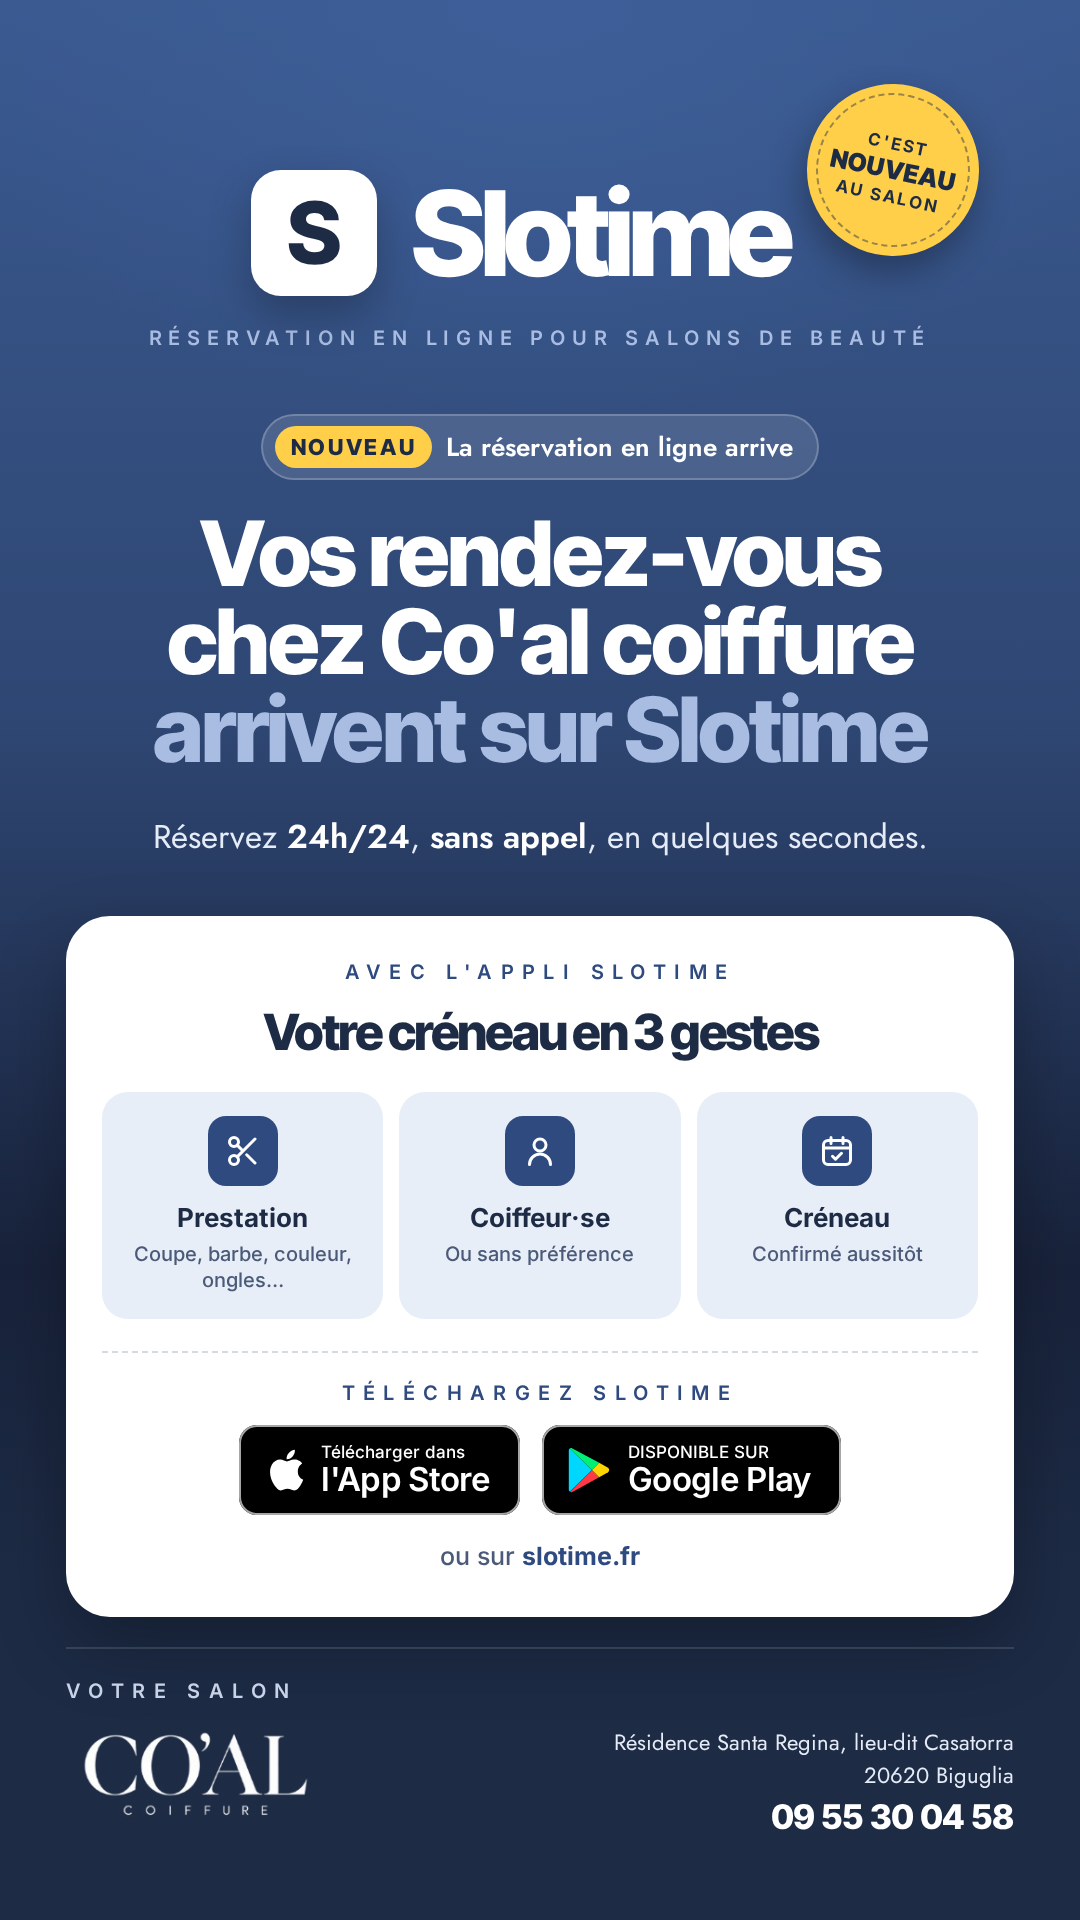
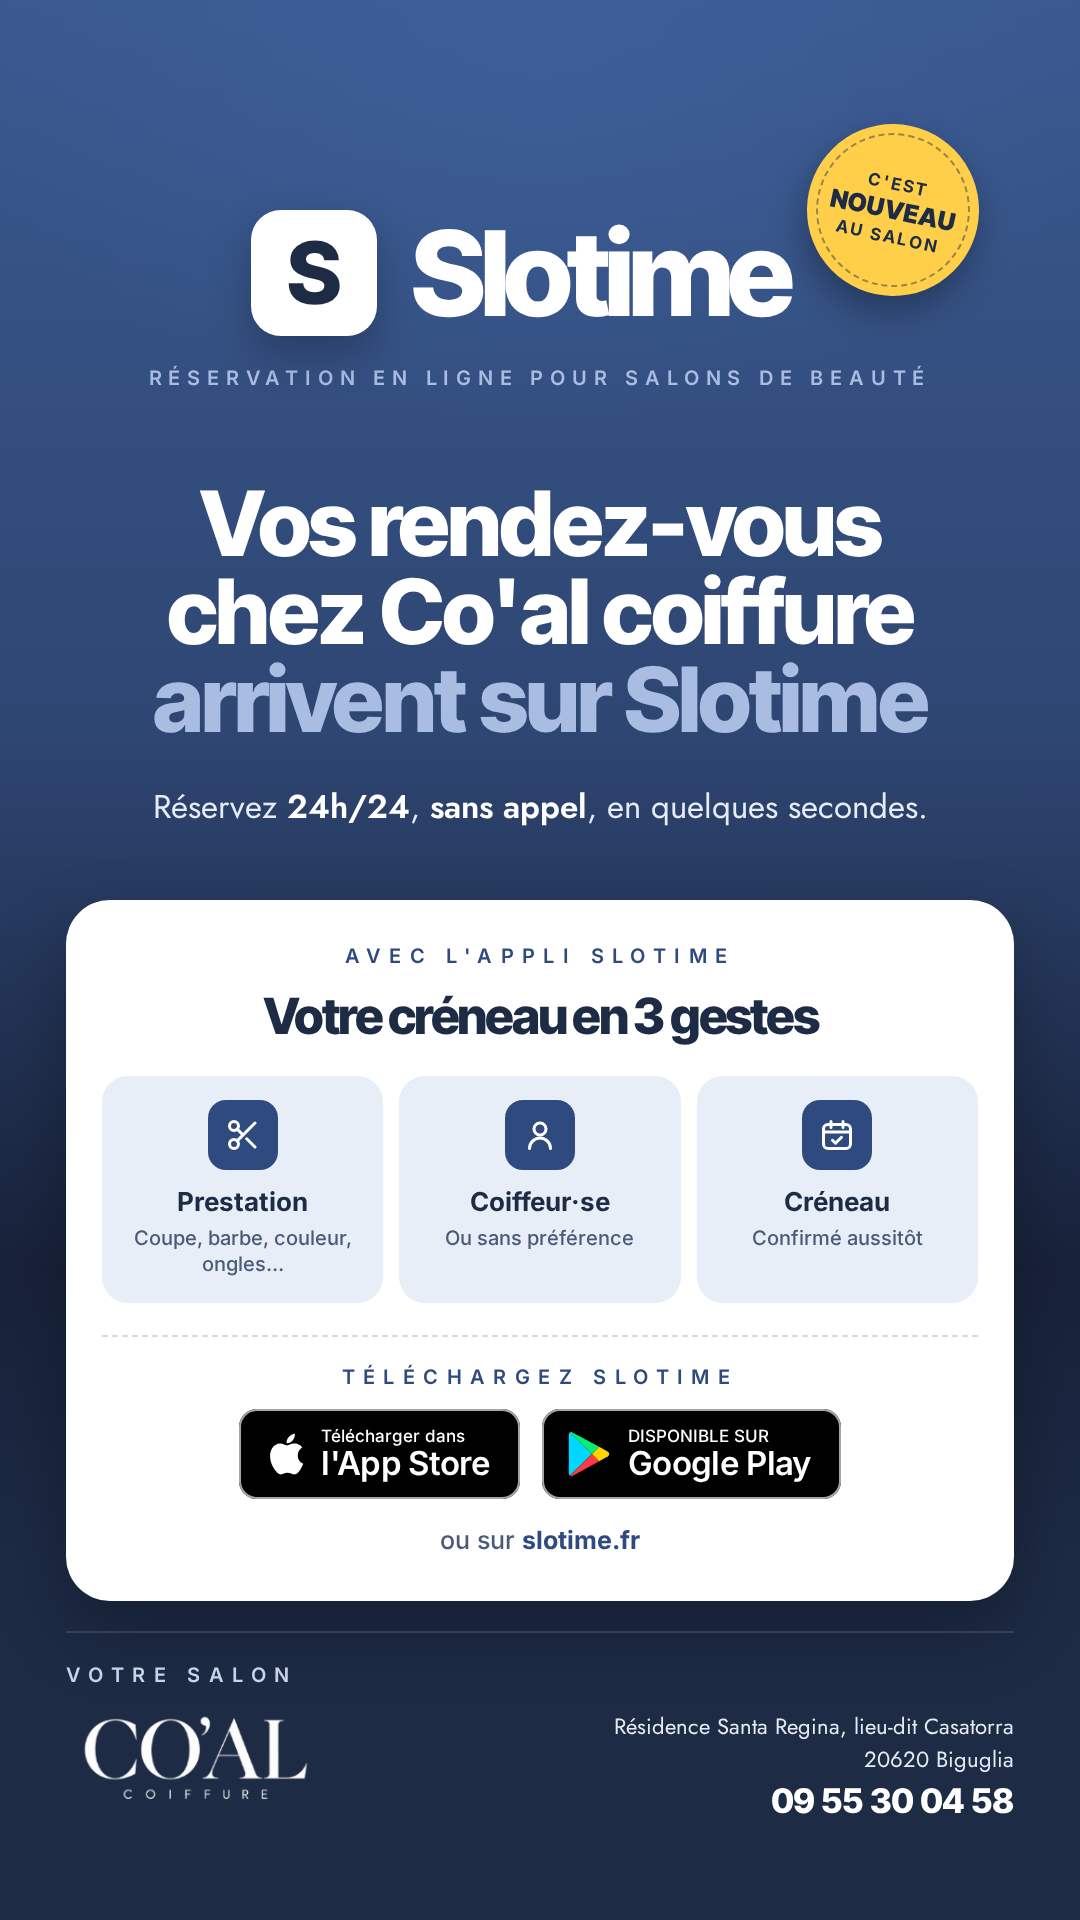
Affiche Slotime : une seule mention « Nouveau » (retire le bandeau)
Claude-Session: https://claude.ai/code/session_01TMEcgZhRSnQaVQC7YFvzaF

diff --git a/slotime/affiche.html b/slotime/affiche.html
@@ -13,7 +13,7 @@
 * { box-sizing: border-box; margin: 0; }
 body { width: 1080px; height: 1920px; overflow: hidden; color: #fff; font-family: "Inter", Arial, sans-serif;
   background: radial-gradient(900px 600px at 50% 0%, #3d5e98, transparent 70%), linear-gradient(180deg, var(--top) 0%, var(--mid) 38%, #18223a 66%, var(--bottom) 82%, var(--bottom) 100%); }
-.wrap { position: relative; height: 100%; padding: 170px 66px 0; display: flex; flex-direction: column; align-items: center; }
+.wrap { position: relative; height: 100%; padding: 210px 66px 0; display: flex; flex-direction: column; align-items: center; }
 
 .brand { position: relative; left: -20px; display: flex; align-items: center; gap: 34px; }
 .logo { width: 126px; height: 126px; border-radius: 30px; background: #fff; color: var(--ink); display: grid; place-items: center; font: 800 86px "Inter Tight", sans-serif; box-shadow: 0 18px 40px rgba(0,0,0,.25); }
@@ -29,12 +29,12 @@ body { width: 1080px; height: 1920px; overflow: hidden; color: #fff; font-family
 .new { margin-top: 64px; display: inline-flex; align-items: center; gap: 14px; padding: 12px 26px 12px 14px; border-radius: 999px; background: rgba(255,255,255,.12); box-shadow: inset 0 0 0 2px rgba(255,255,255,.22); font: 600 26px "Jost", sans-serif; }
 .new span { background: var(--hot); color: var(--hot-ink); font: 800 22px "Inter Tight", sans-serif; letter-spacing: .12em; padding: 8px 16px; border-radius: 999px; }
 
-h1 { margin-top: 30px; text-align: center; font: 800 90px/0.98 "Inter Tight", sans-serif; letter-spacing: -0.03em; }
+h1 { margin-top: 90px; text-align: center; font: 800 90px/0.98 "Inter Tight", sans-serif; letter-spacing: -0.03em; }
 h1 em { font-style: normal; color: var(--sky); }
 .sub { margin-top: 38px; font: 400 33px "Jost", sans-serif; color: #e6ecf7; }
 .sub b { font-weight: 600; color: #fff; }
 
-.card { margin-top: 56px; width: 100%; background: #fff; color: var(--ink); border-radius: 44px; padding: 44px 36px 46px; text-align: center; box-shadow: 0 30px 70px rgba(0,0,0,.28); }
+.card { margin-top: 70px; width: 100%; background: #fff; color: var(--ink); border-radius: 44px; padding: 44px 36px 46px; text-align: center; box-shadow: 0 30px 70px rgba(0,0,0,.28); }
 .eyebrow { font: 600 20px "Inter", sans-serif; letter-spacing: .42em; color: var(--icon); text-transform: uppercase; }
 .card h2 { margin-top: 18px; font: 800 50px "Inter Tight", sans-serif; letter-spacing: -0.045em; }
 .steps { margin-top: 30px; display: grid; grid-template-columns: repeat(3, 1fr); gap: 16px; }
@@ -65,7 +65,6 @@ h1 em { font-style: normal; color: var(--sky); }
   </div>
   <div class="tag">Réservation en ligne pour salons de beauté</div>
 
-  <div class="new"><span>NOUVEAU</span>La réservation en ligne arrive</div>
   <h1>Vos rendez-vous<br>chez Co'al coiffure<br><em>arrivent sur Slotime</em></h1>
   <p class="sub">Réservez <b>24h/24</b>, <b>sans appel</b>, en quelques secondes.</p>
 
